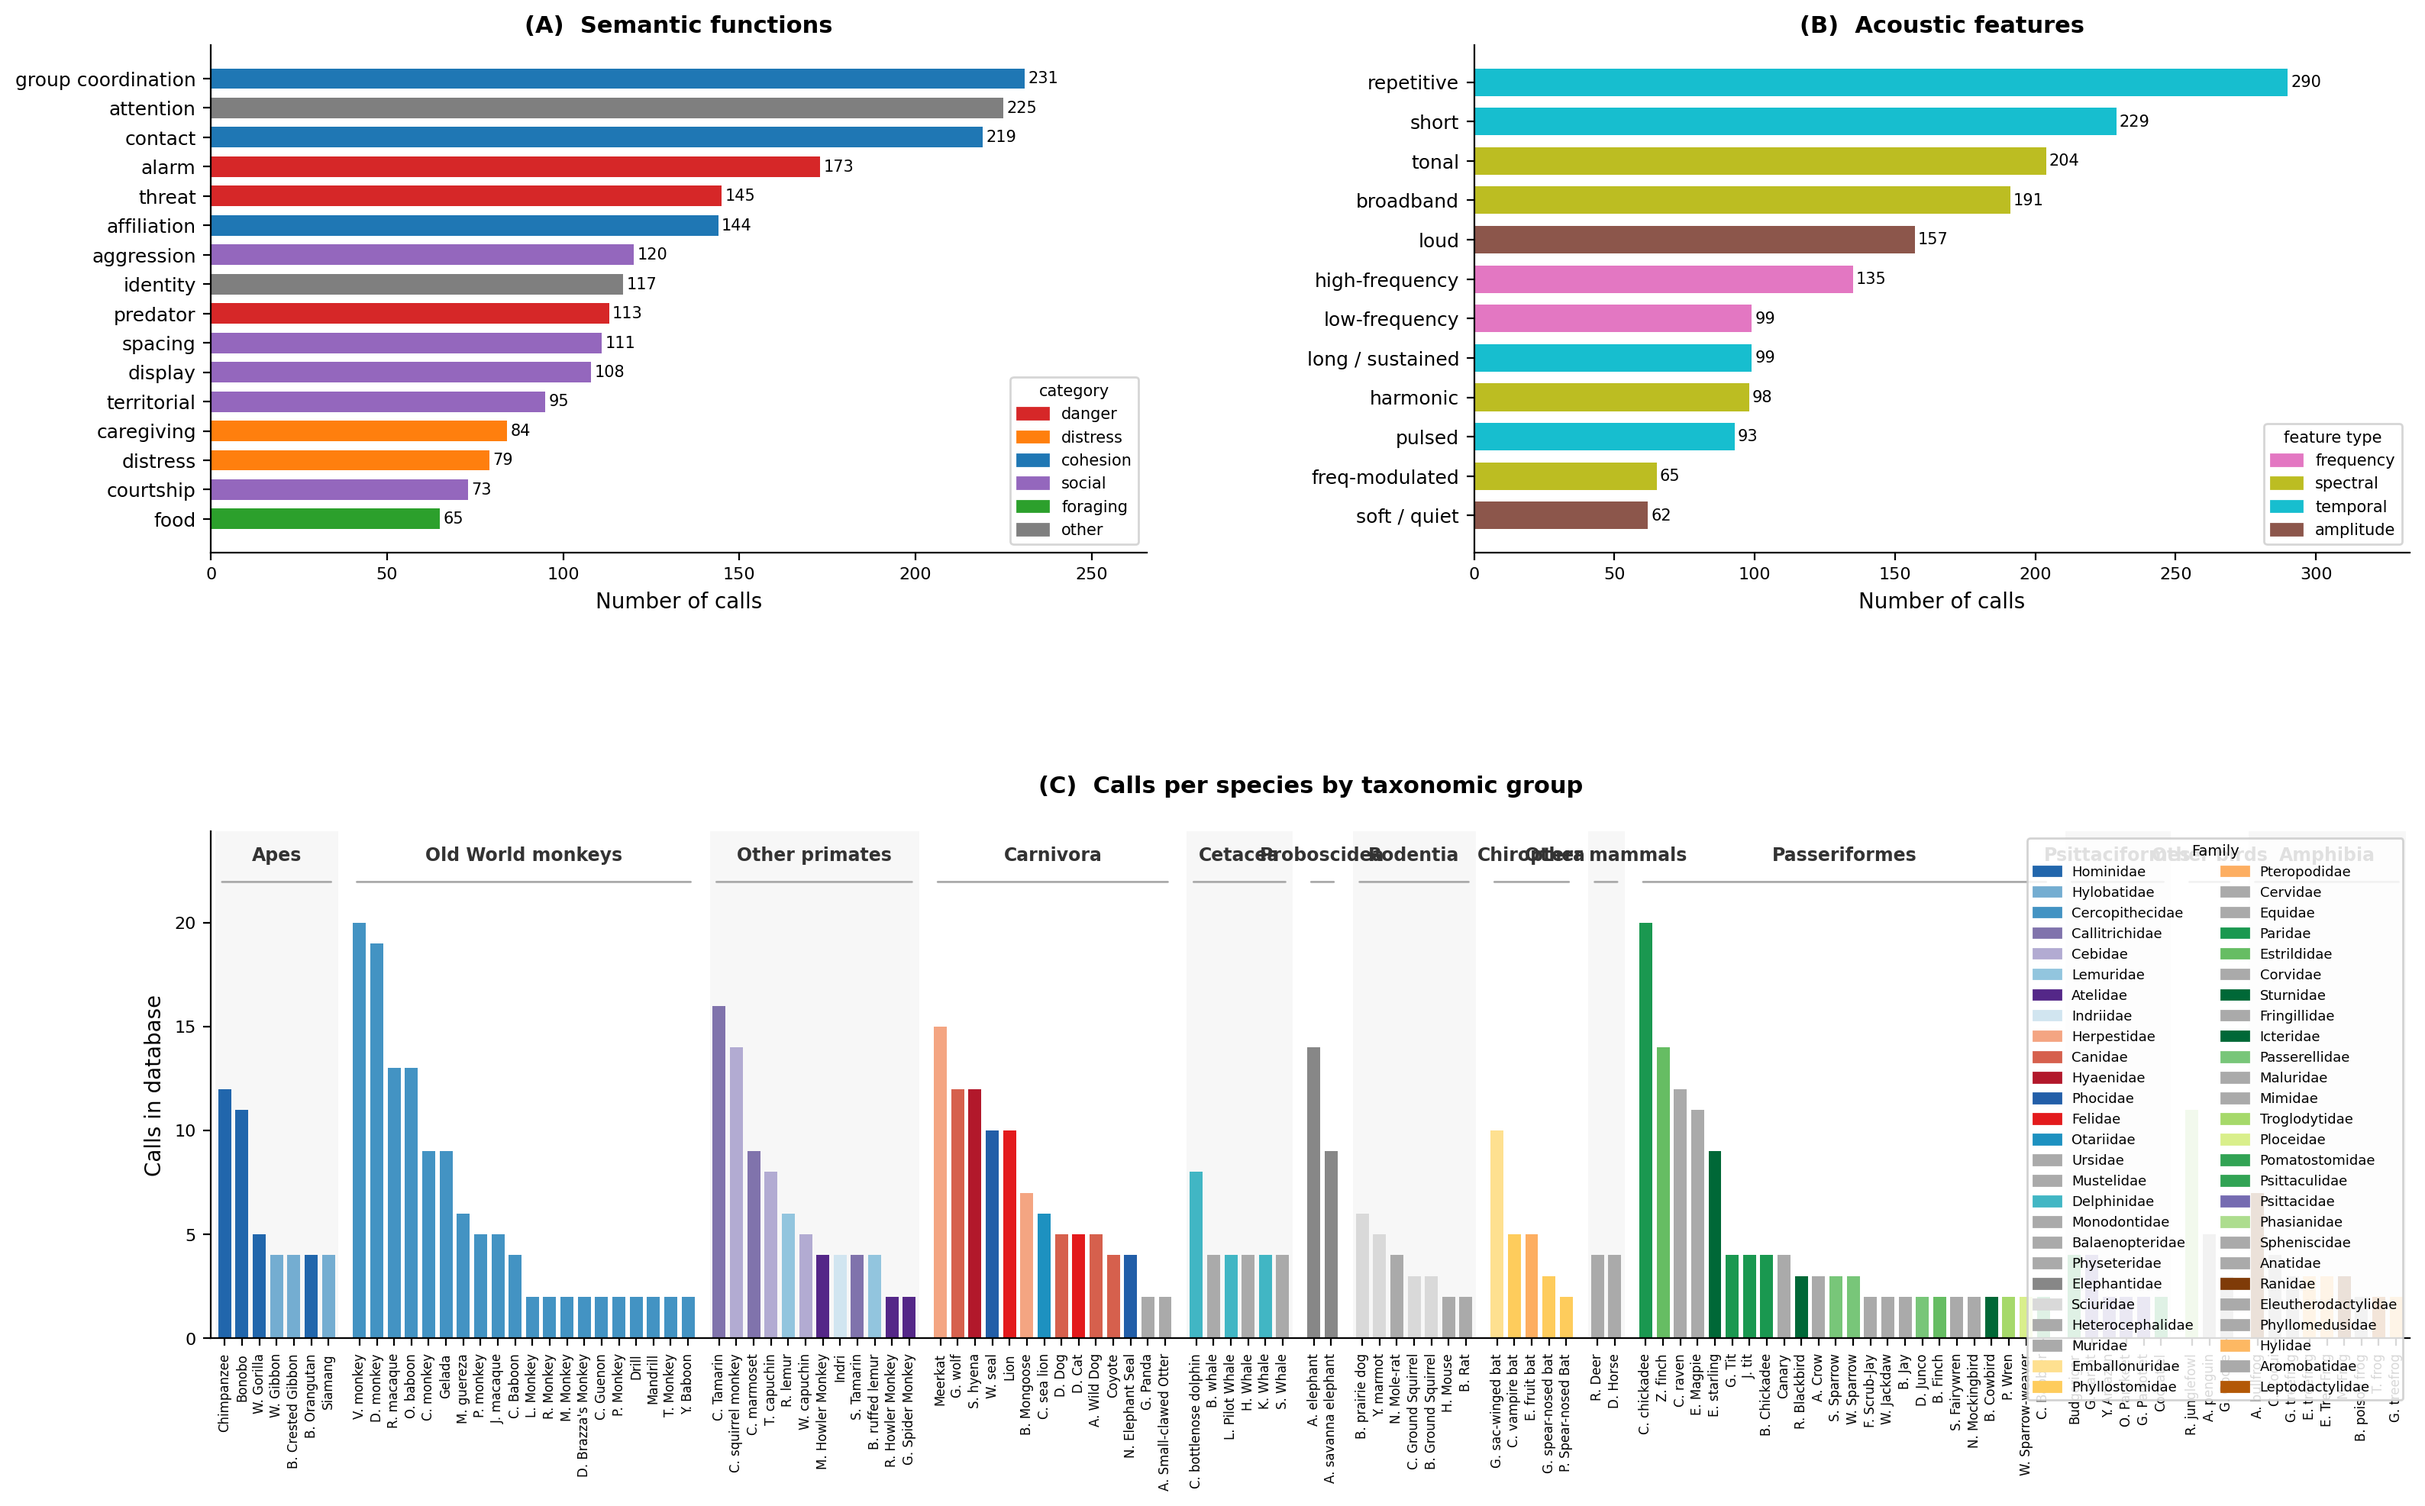
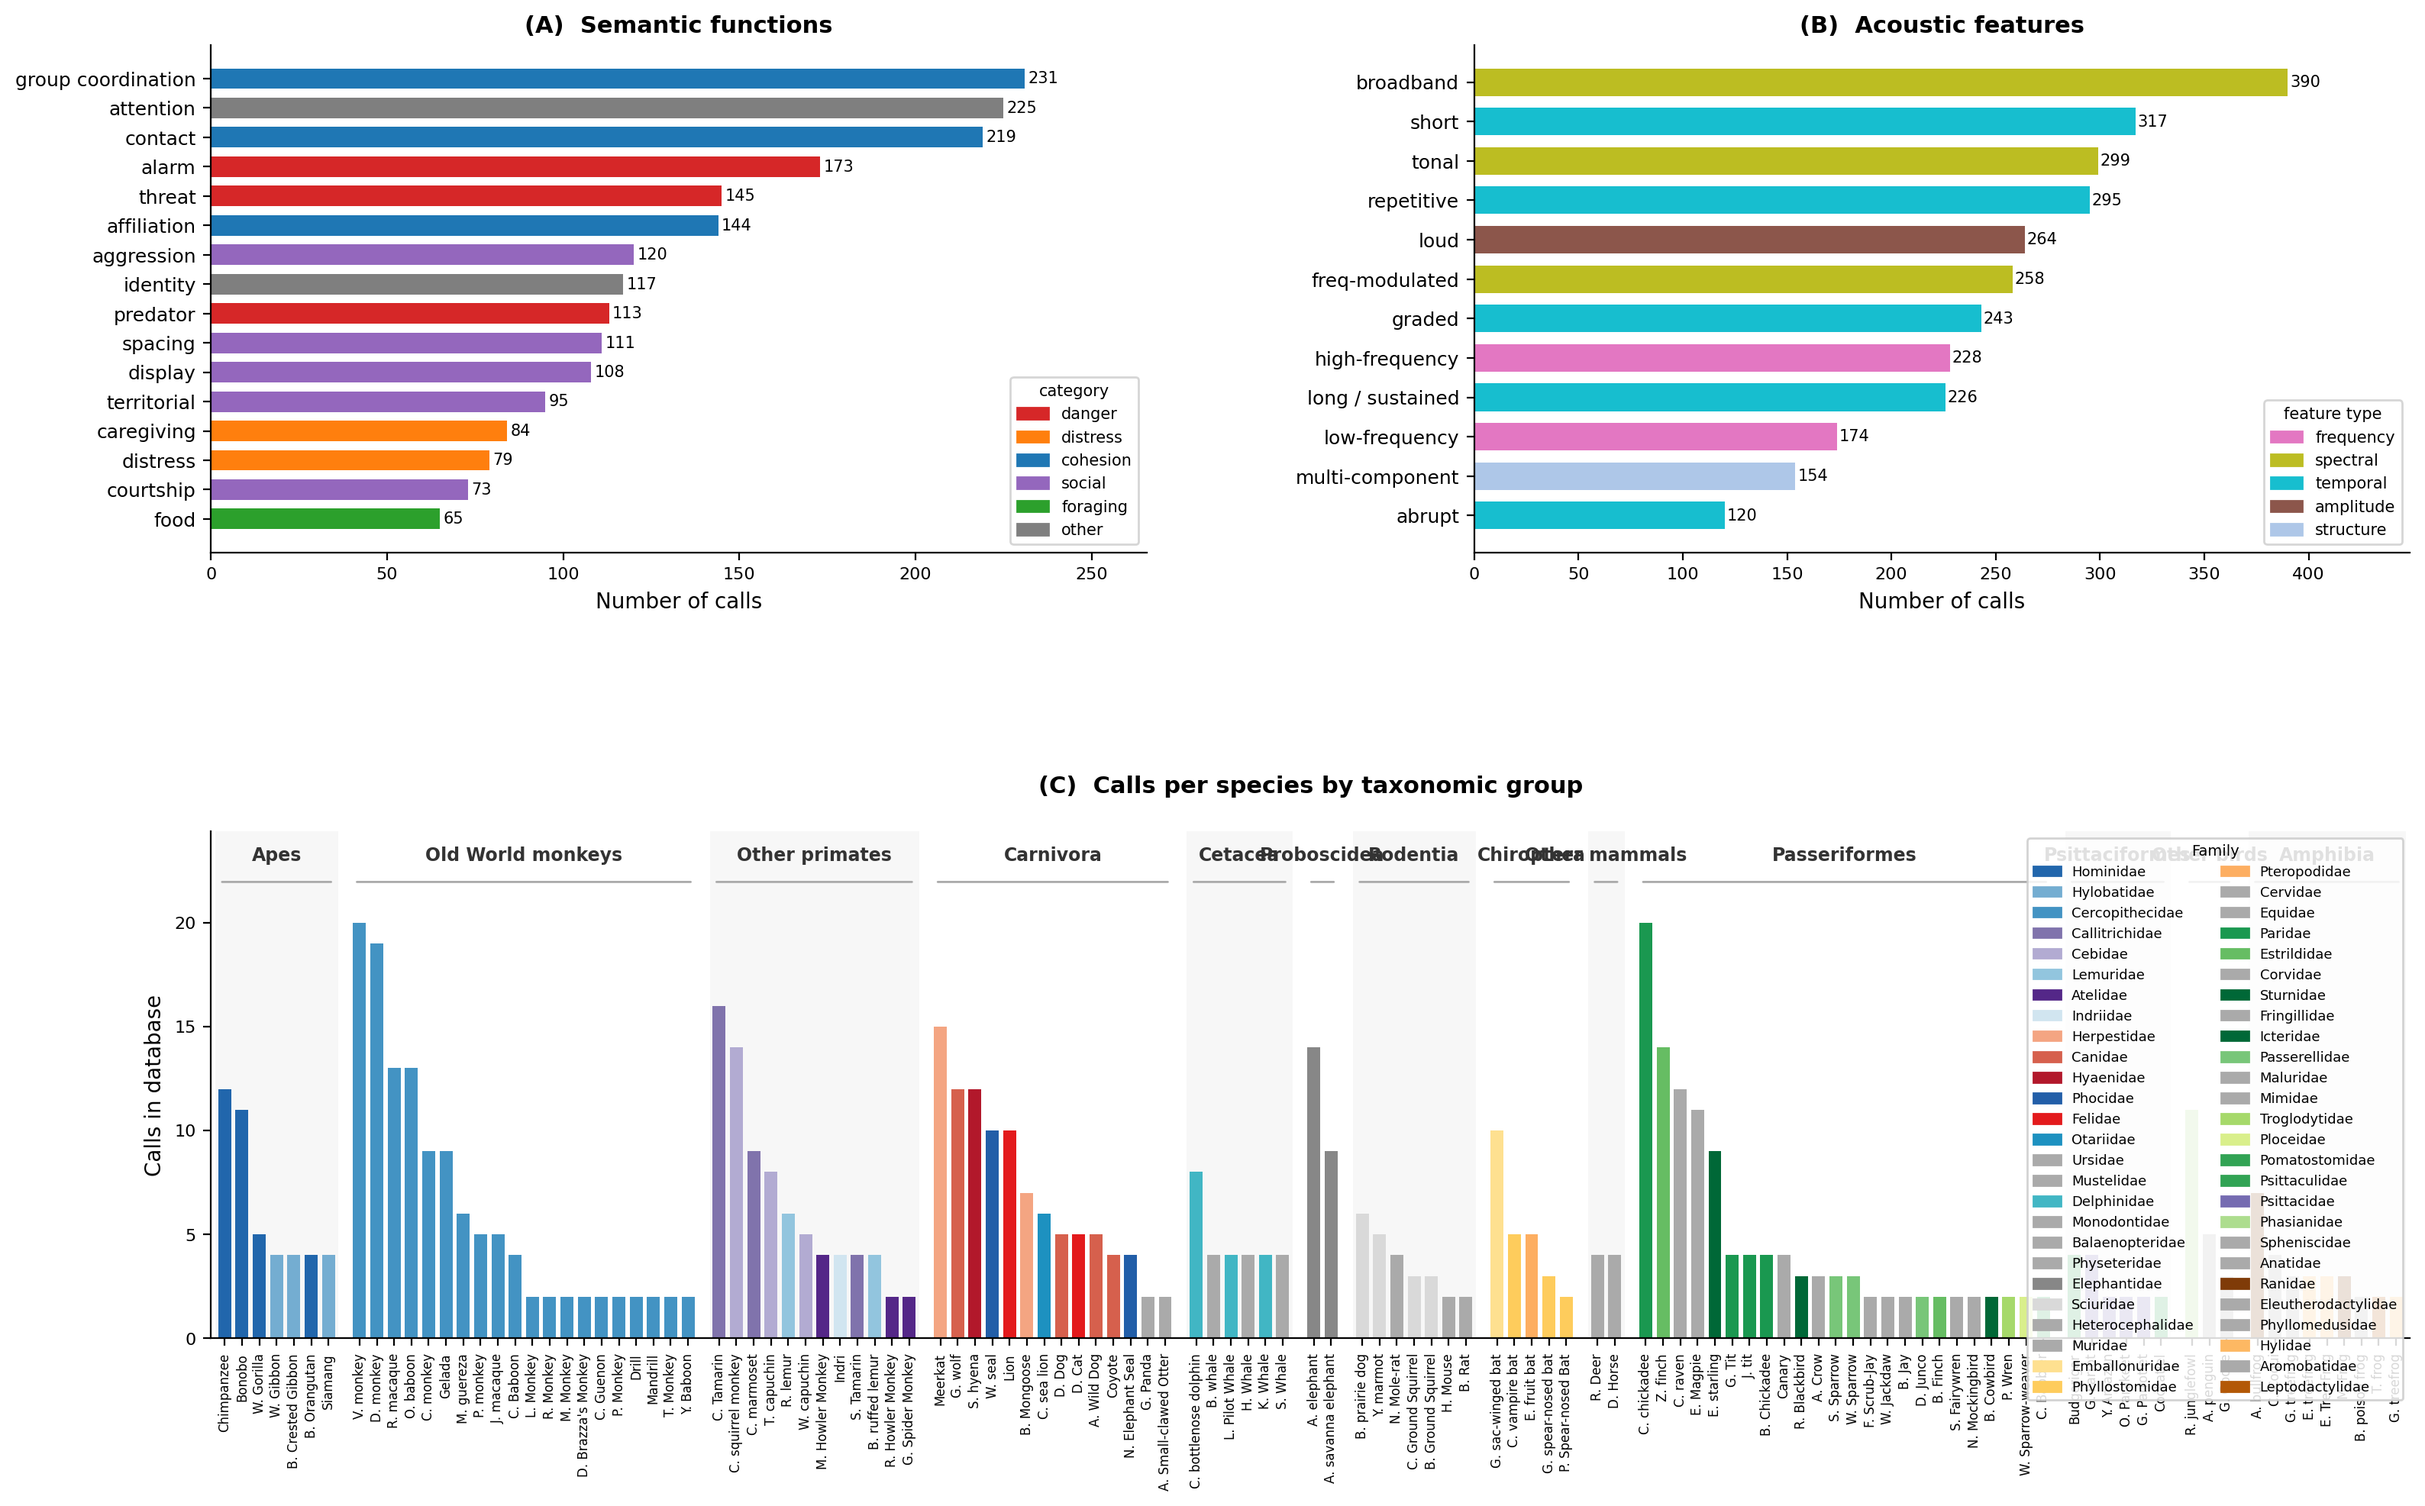
Use pre-existing acoustic_keywords for panel B when data-source=new
For the new repertoire, panel B now counts the structured acoustic_keywords
field (tonal, pulsed, frequency_modulated, etc.) directly instead of
regex-matching the free-text acoustic_description. Adds ACOUSTIC_KEYWORD_MAP
mapping new keyword vocabulary to display labels and colour categories, and a
new 'structure' colour category for multi-component. Old data source is
unchanged (still uses ACOUSTIC_PATTERNS text matching).

Changed region(s): [[0.5299, 0.0928, 0.8728, 0.371], [0.5611, 0.0309, 0.9663, 0.0928], [0.9351, 0.2473, 0.9975, 0.371]]

diff --git a/paper_code/fig_dataset_overview.py b/paper_code/fig_dataset_overview.py
@@ -89,6 +89,27 @@ AC_CAT_COLORS = {
     "spectral":  "#bcbd22",
     "temporal":  "#17becf",
     "amplitude": "#8c564b",
+    "structure": "#aec7e8",
+}
+
+# Pre-existing acoustic_keywords in new data → (display label, category)
+ACOUSTIC_KEYWORD_MAP = {
+    "high_frequency":    ("high-frequency",   "frequency"),
+    "low_frequency":     ("low-frequency",    "frequency"),
+    "tonal":             ("tonal",            "spectral"),
+    "broadband":         ("broadband",        "spectral"),
+    "noisy":             ("broadband",        "spectral"),
+    "harmonic":          ("harmonic",         "spectral"),
+    "frequency_modulated":("freq-modulated",  "spectral"),
+    "pulsed":            ("pulsed",           "temporal"),
+    "repetitive":        ("repetitive",       "temporal"),
+    "short":             ("short",            "temporal"),
+    "abrupt":            ("abrupt",           "temporal"),
+    "long":              ("long / sustained", "temporal"),
+    "graded":            ("graded",           "temporal"),
+    "loud":              ("loud",             "amplitude"),
+    "quiet":             ("soft / quiet",     "amplitude"),
+    "multi_component":   ("multi-component",  "structure"),
 }
 
 # ------------------------------------------------------------------ #
@@ -161,17 +182,30 @@ def panel_A(ax, calls, top_n=16):
 # Panel B – acoustic keywords
 # ------------------------------------------------------------------ #
 
-def panel_B(ax, calls, top_n=12):
-    counts = {}
-    cats   = {}
-    for label, patterns, cat in ACOUSTIC_PATTERNS:
-        c = sum(1 for call in calls
-                if any(p in call.get("acoustic_description","").lower()
-                       for p in patterns))
-        counts[label] = c
-        cats[label]   = cat
+def panel_B(ax, calls, top_n=12, use_keywords=False):
+    if use_keywords:
+        # Use pre-existing acoustic_keywords from the new data source
+        counts = Counter()
+        cats   = {}
+        for call in calls:
+            for kw in (call.get("acoustic_keywords") or []):
+                if kw in ACOUSTIC_KEYWORD_MAP:
+                    label, cat = ACOUSTIC_KEYWORD_MAP[kw]
+                    counts[label] += 1
+                    cats[label] = cat
+        items = counts.most_common(top_n)
+    else:
+        # Text pattern-matching for old data source
+        counts = {}
+        cats   = {}
+        for label, patterns, cat in ACOUSTIC_PATTERNS:
+            c = sum(1 for call in calls
+                    if any(p in call.get("acoustic_description","").lower()
+                           for p in patterns))
+            counts[label] = c
+            cats[label]   = cat
+        items = sorted(counts.items(), key=lambda x: -x[1])[:top_n]
 
-    items = sorted(counts.items(), key=lambda x: -x[1])[:top_n]
     labels = [k for k, _ in items]
     values = [v for _, v in items]
     colors = [AC_CAT_COLORS[cats[k]] for k in labels]
@@ -355,7 +389,7 @@ def main():
     ax_CD = fig.add_subplot(gs[1, :])   # merged bottom row
 
     panel_A(ax_A, calls)
-    panel_B(ax_B, calls)
+    panel_B(ax_B, calls, use_keywords=(args.data_source == "new"))
     panel_CD(ax_CD, species_list)
 
     out = out_dir / "fig1_dataset_overview.png"
